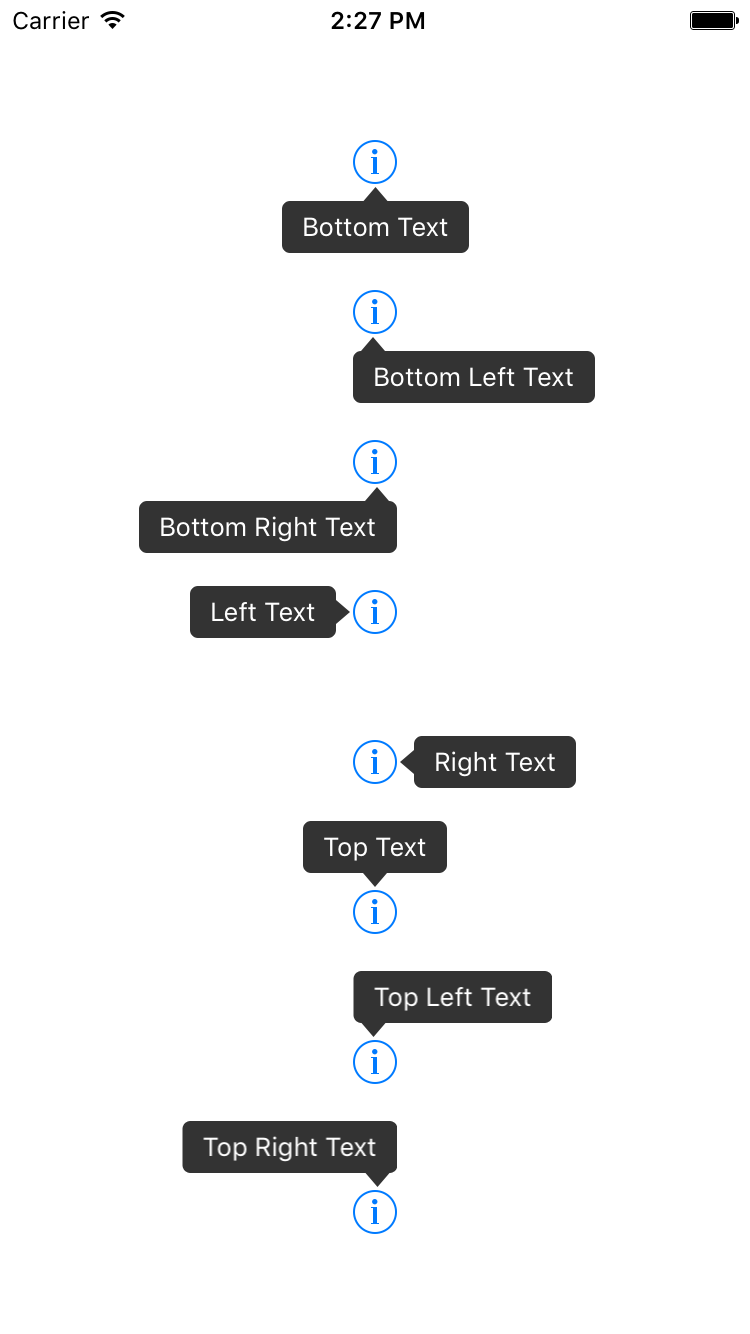
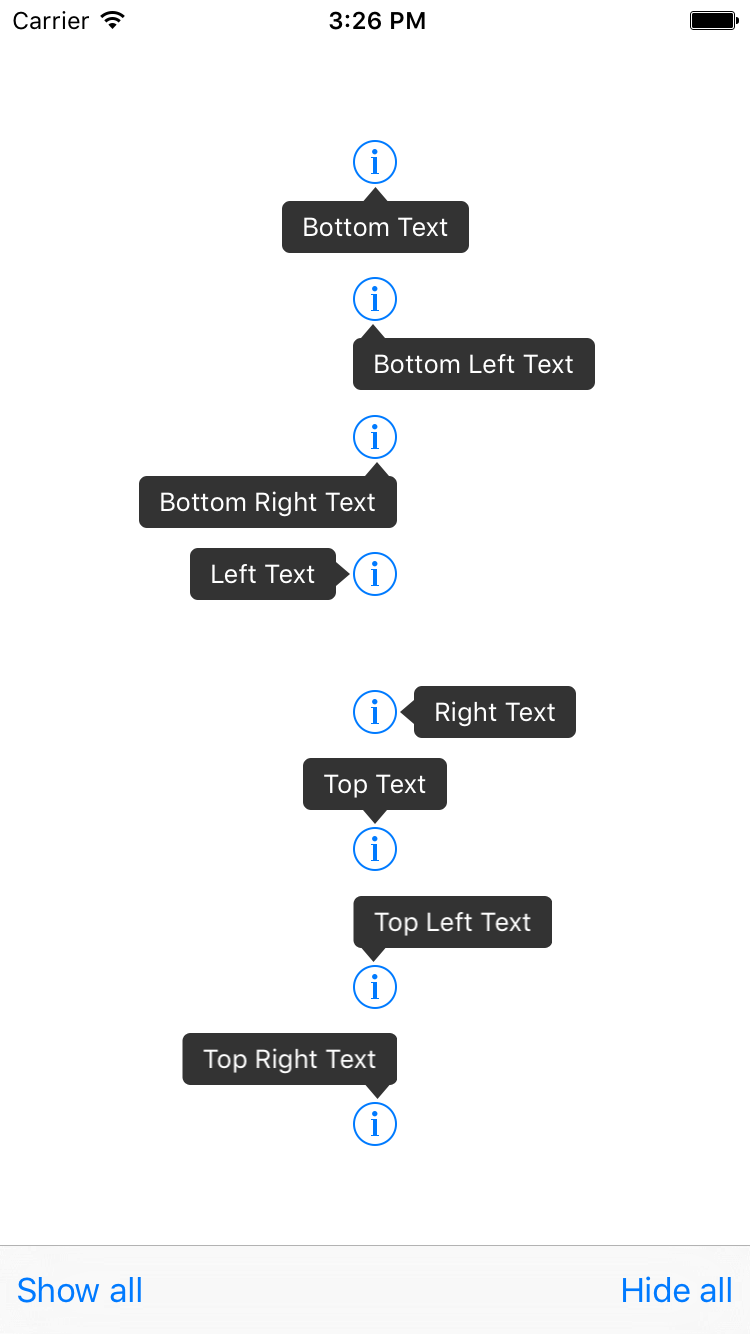
manual triggers

diff --git a/ZGTooltipView/Classes/ZGTooltipView.swift b/ZGTooltipView/Classes/ZGTooltipView.swift
@@ -46,13 +46,23 @@ public extension UIView {
         tooltipView?.dismiss(remove:true)
     }
     
+    public func showTooltip() {
+        if tooltipView?.isVisible == false {
+            tooltipView?.displayInView(self)
+        }
+    }
+    
+    public func dismissTooltip(remove remove:Bool = false) {
+        tooltipView?.dismiss(remove:remove)
+    }
+    
     @objc private func tooltipGestureHandler(gesture:UIGestureRecognizer) {
         
         if let tooltipView = tooltipView {
-            tooltipView.isVisible ? tooltipView.dismiss(remove:false) : tooltipView.displayInView(self)
+            tooltipView.isVisible ? dismissTooltip(remove:false) : showTooltip()
         }
     }
-
+    
 }
 
 public class ZGTooltipView: UIView {
@@ -60,7 +70,7 @@ public class ZGTooltipView: UIView {
     static let triangleMargin : CGFloat = 10
     
     public var animationEnable = true
-
+    
     private var bgColor = UIColor(white: 0, alpha: 0.8)
     private var isVisible = false
     private var contentView : UIView!
@@ -204,12 +214,12 @@ public class ZGTooltipView: UIView {
         }
         
         let triangleSpacing : CGFloat = self.direction == .Bottom || self.direction == .BottomRight || self.direction == .BottomLeft || self.direction == .Top || self.direction == .TopLeft || self.direction == .TopRight ? (triangleShapeLayer.bounds.height/2 + 5)  : (triangleShapeLayer.bounds.width/2 + 5)
-    
+        
         self.setNeedsLayout()
         self.layoutIfNeeded()
         
         switch self.direction {
-    
+            
         case .Bottom, .BottomLeft, .BottomRight:
             superview.addConstraint(NSLayoutConstraint(item: self, attribute: .Top, relatedBy: .Equal, toItem: superview, attribute: .Bottom, multiplier: 1, constant:  triangleSpacing - (self.bounds.height / 2) ))
             break
@@ -217,7 +227,7 @@ public class ZGTooltipView: UIView {
         case .Top, .TopRight, .TopLeft:
             superview.addConstraint(NSLayoutConstraint(item: self, attribute: .Bottom, relatedBy: .Equal, toItem: superview, attribute: .Top, multiplier: 1, constant:  (triangleSpacing - (self.bounds.height / 2)) * -1))
             break
-        
+            
         case .Left, .Right:
             superview.addConstraint(NSLayoutConstraint(item: superview, attribute: .CenterY, relatedBy: .Equal, toItem: self, attribute: .CenterY, multiplier: 1, constant:  0))
             break
@@ -240,7 +250,7 @@ public class ZGTooltipView: UIView {
             self.superview?.addConstraint(NSLayoutConstraint(item: superview, attribute: .CenterX, relatedBy: .Equal, toItem: self, attribute: .CenterX, multiplier: 1, constant:  0))
             break
         }
-
+        
         if (animationEnable) {
             
             self.layer.transform = CATransform3DMakeScale(0, 0, 1)
@@ -319,7 +329,7 @@ public class ZGTooltipView: UIView {
         case .BottomRight:
             triangleShapeLayer.anchorPoint = CGPointMake(0.5, 1)
             triangleShapeLayer.position = CGPointMake(self.bounds.width - ZGTooltipView.triangleMargin, 0)
-
+            
             break
         }
         

diff --git a/Example/ZGTooltipView/ViewController.swift b/Example/ZGTooltipView/ViewController.swift
@@ -20,15 +20,18 @@ class ViewController: UIViewController {
     @IBOutlet var R_Button : UIButton!
     @IBOutlet var L_Button : UIButton!
     
+    var buttons : [UIButton]!
+
     override func viewDidLoad() {
         super.viewDidLoad()
         
+        buttons = [B_Button, BL_Button, BR_Button, T_Button, TL_Button, TR_Button, R_Button, L_Button]
     }
     
+
     override func viewDidAppear(animated: Bool) {
         super.viewDidAppear(animated)
         
-        let buttons = [B_Button, BL_Button, BR_Button, T_Button, TL_Button, TR_Button, R_Button, L_Button]
         
         B_Button.setTooltip(ZGTooltipView(direction: .Bottom, text: "Bottom Text"))
         BL_Button.setTooltip(ZGTooltipView(direction: .BottomLeft, text: "Bottom Left Text"))
@@ -42,6 +45,18 @@ class ViewController: UIViewController {
         
         for button in buttons {
             button.performSelector(Selector("tooltipGestureHandler:"), withObject: UITapGestureRecognizer())
+        }
+    }
+    
+    @IBAction func showAllTooltips(sender: AnyObject) {
+        for button in buttons {
+            button.showTooltip()
+        }
+    }
+    
+    @IBAction func hideAllTooltips(sender: AnyObject) {
+        for button in buttons {
+            button.dismissTooltip()
         }
     }
     
